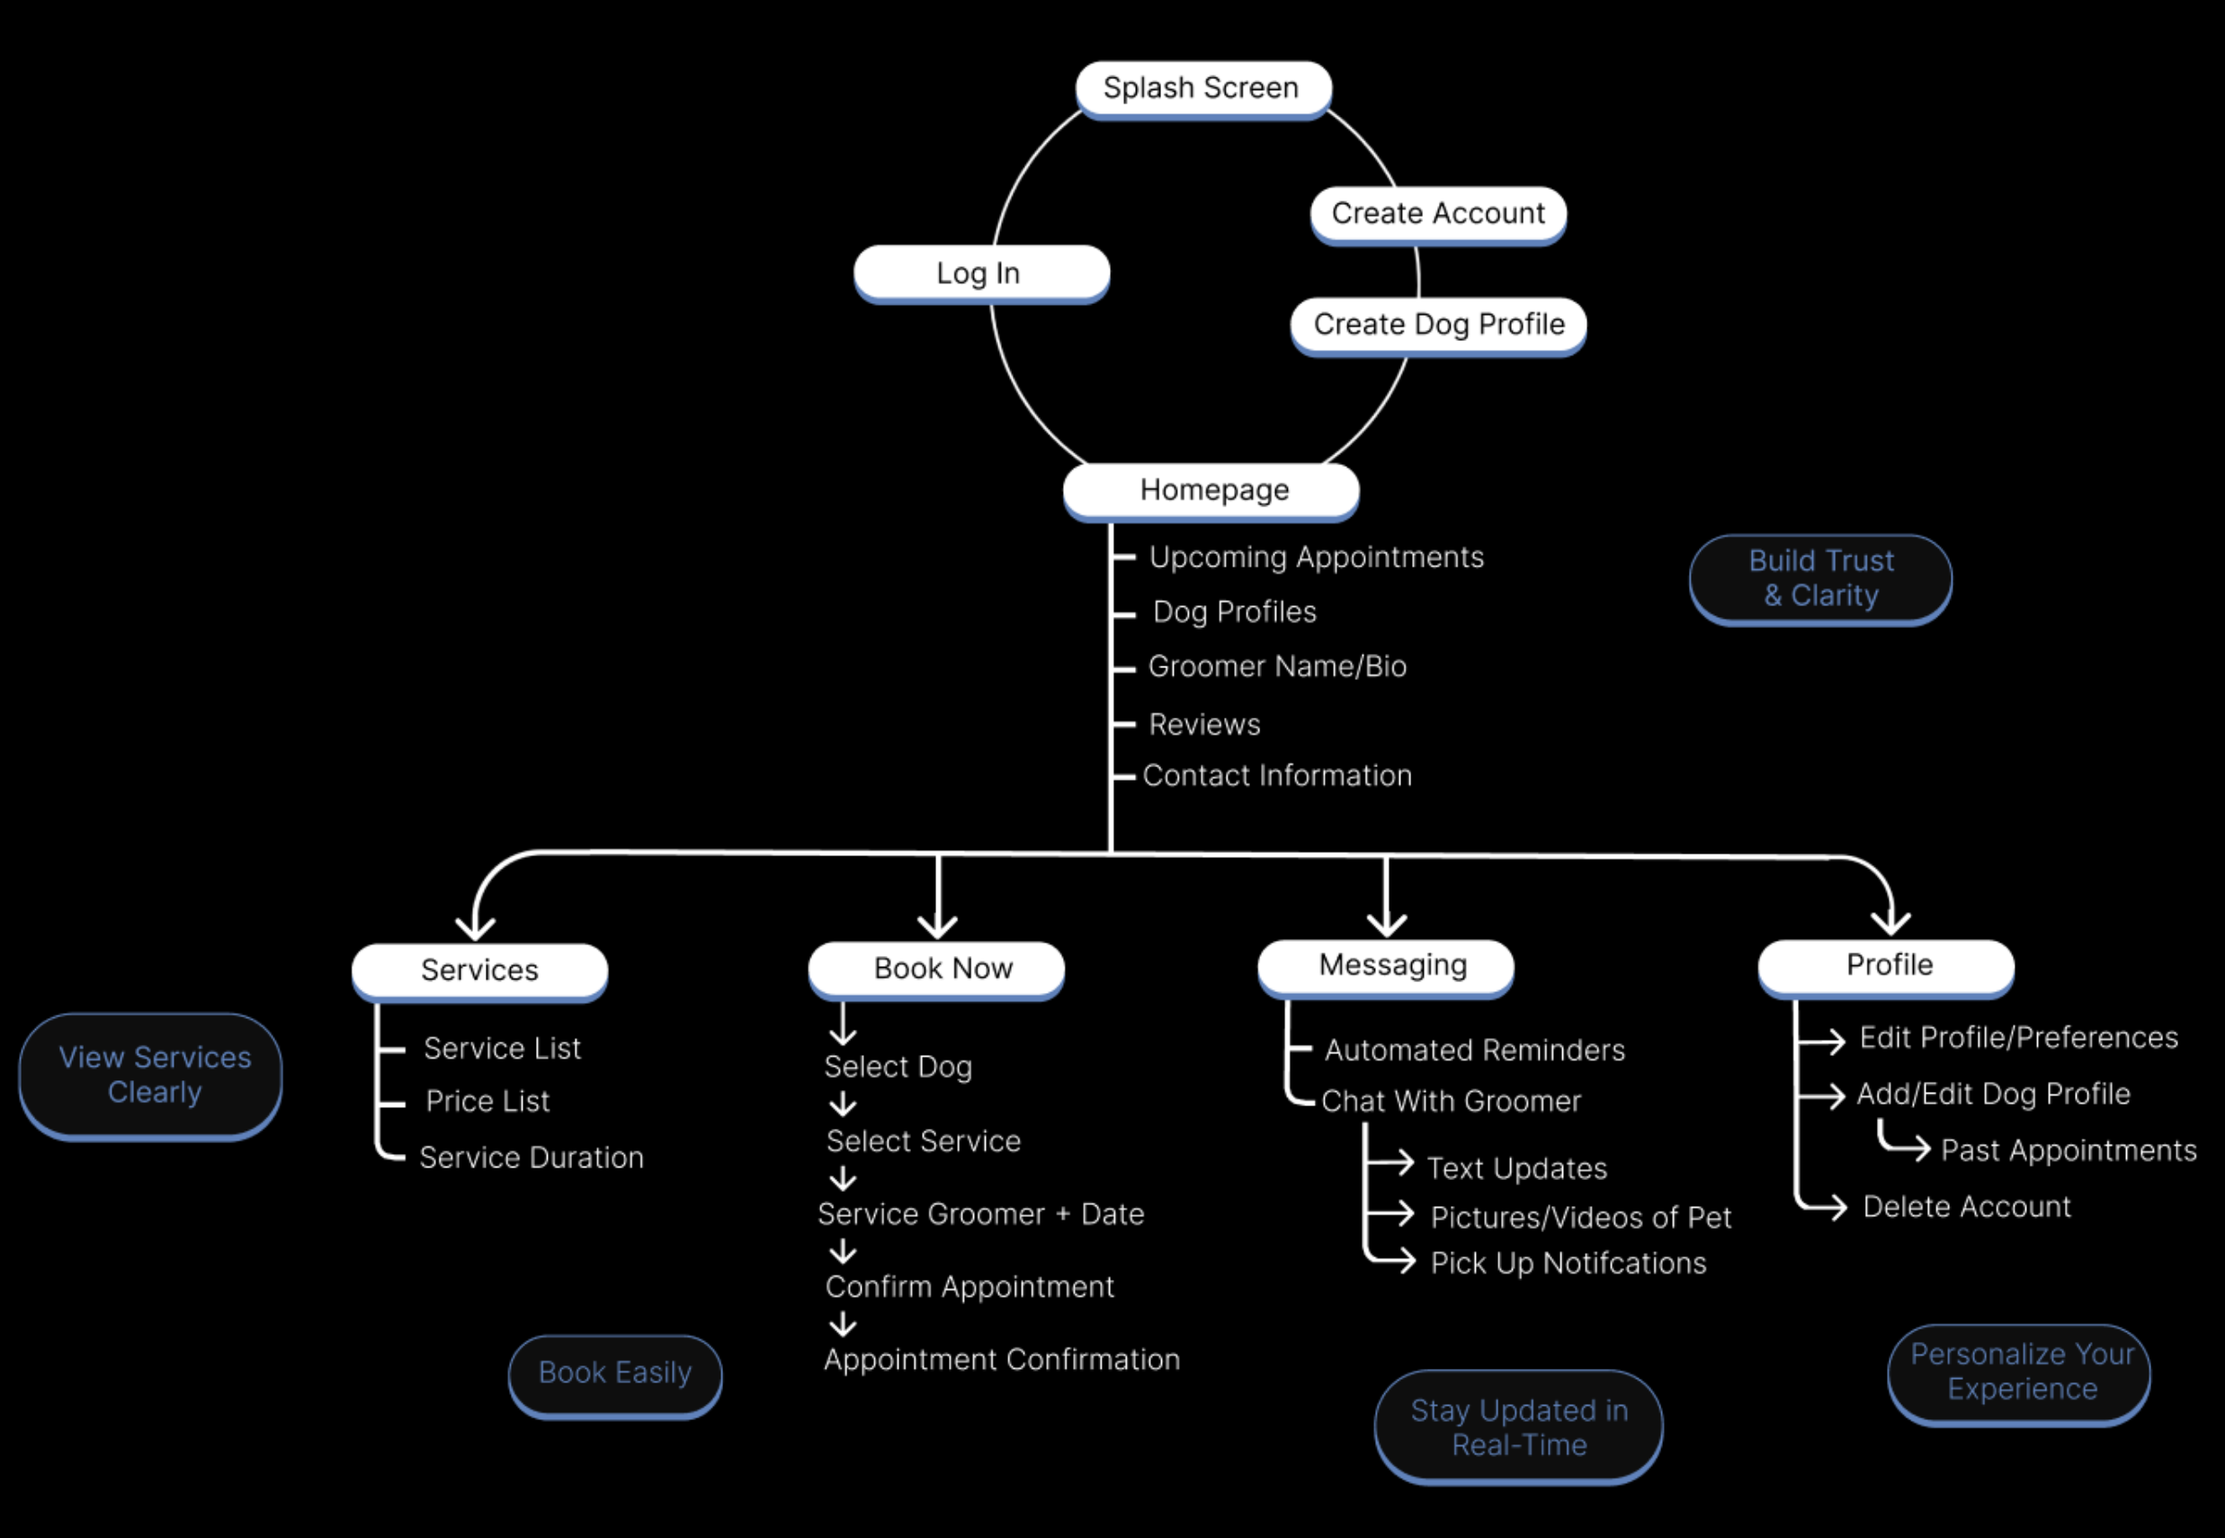
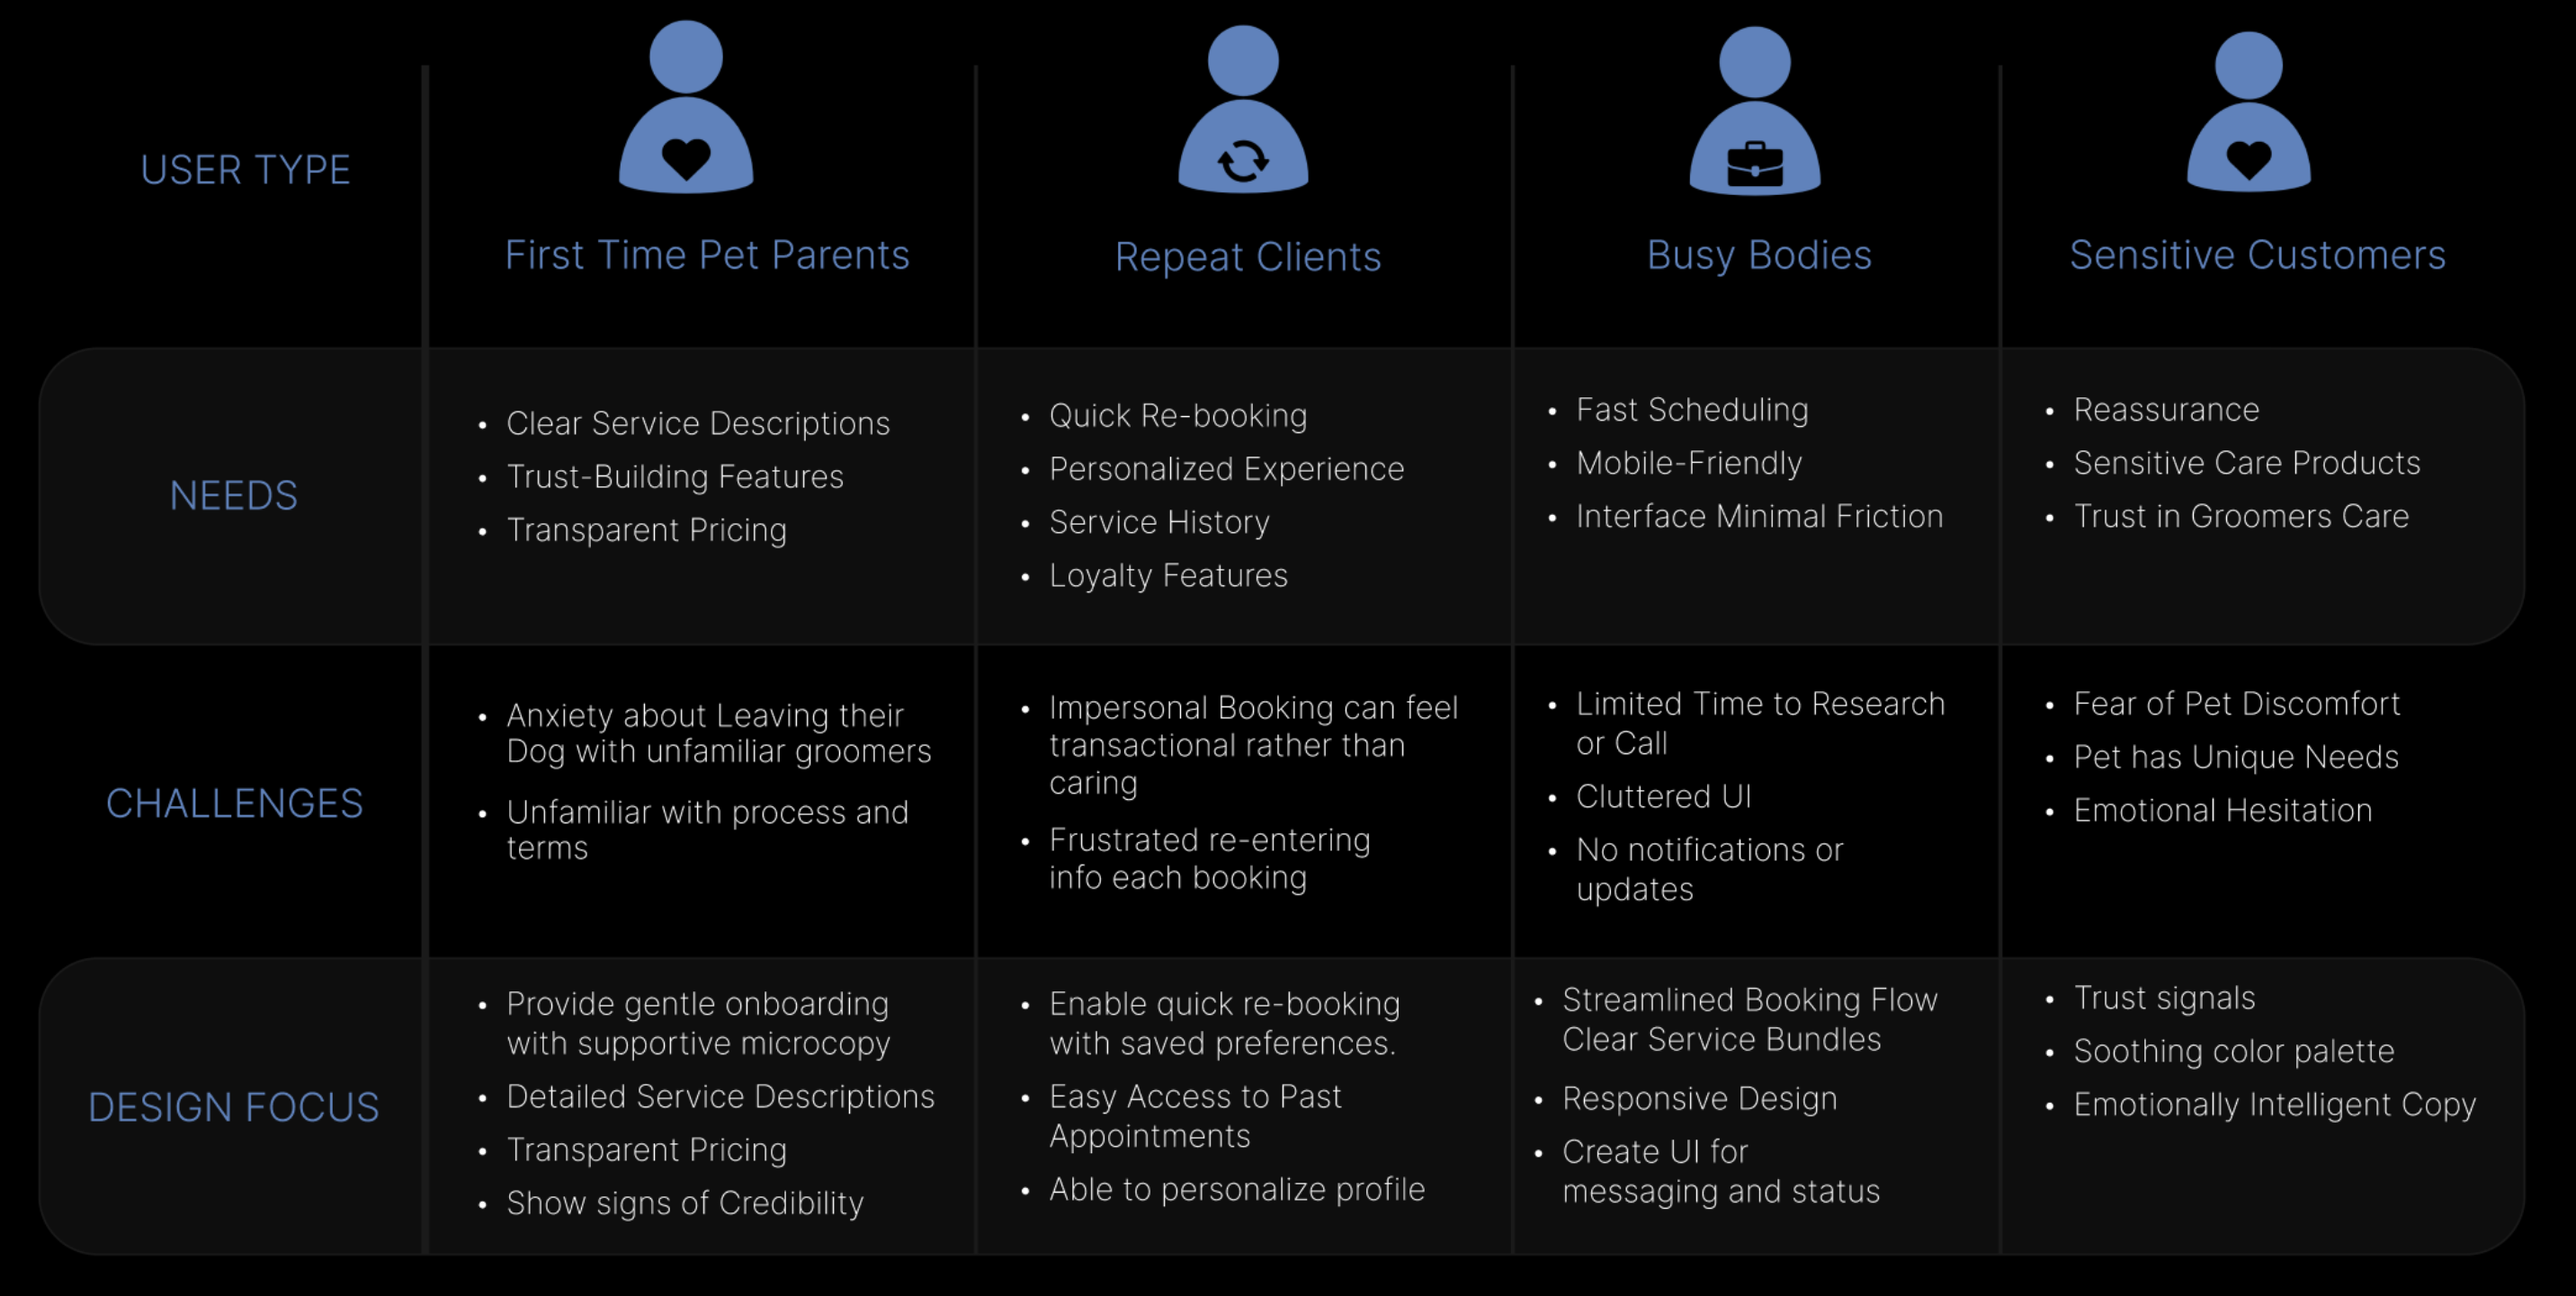
updated hero1

diff --git a/components/Project1/1-hero.tsx b/components/Project1/1-hero.tsx
@@ -1,14 +1,15 @@
+// components/Project1/HeroOverviewDog.tsx
 "use client";
 
 import Image from "next/image";
 import SectionHeader from "../SectionHeader";
 import { motion, useReducedMotion } from "framer-motion";
 
-export default function HeroOverviewCamping() {
+export default function HeroOverviewDog() {
   const prefersReduced = useReducedMotion();
 
-  const imageVariants = {
-    hidden: { opacity: 0, y: 16, filter: "blur(8px)" },
+  const phoneVariants = {
+    hidden: { opacity: 0, y: 14, filter: "blur(8px)" },
     show: {
       opacity: 1,
       y: 0,
@@ -17,62 +18,86 @@ export default function HeroOverviewCamping() {
     },
   };
 
-  const skillsRow1 = ["RESEARCH", "USER FLOWS", "USABILITY TESTING", "SKETCHING"];
-  const skillsRow2 = ["WIREFRAMING", "PROTOTYPING", "RESPONSIVE DESIGN", "UI CREATION"];
+  const skillsRow1 = ["UX RESEARCH", "UI CREATION", "USER FLOWS", "USABILITY STUDY"];
+  const skillsRow2 = ["WIREFRAMING", "PROTOTYPING", "RESPONSIVE DESIGN"];
 
   return (
     <section className="w-screen min-h-screen bg-black text-white flex flex-col justify-center">
-      <div className="mx-auto w-full max-w-[1000px] px-6 pt-20 pb-24 mt-12">
+      <div className="mx-auto w-full max-w-[1200px] px-6 pt-20 pb-24 mt-12">
         {/* ---------- HEADER ---------- */}
         <div className="text-center">
           <SectionHeader
-            kicker="RESPONSIVE WEBSITE DESIGN"
-            title="How Thoughtful UX Design Increased Engagement for First-Time Campers"
+            kicker="MOBILE APPLICATION"
+            title="How Emotionally Intelligent Design Improves Booking Confidence for Dog Grooming"
             align="center"
-            accent="camp"
-            kickerClassName="text-[8px] md:text-sm text-emerald-400"
-            titleClassName="text-md md:text-3xl max-w-3xl mx-auto text-center mt-2"
+            accent="dog"
+            kickerClassName="text-[8px] md:text-sm text-[#9DC0FF]"
+            titleClassName="text-md md:text-5xl max-w-[1000px] ml-12 mt-2"
           />
         </div>
 
-        {/* ---------- HERO IMAGE ---------- */}
-        <div className="relative mt-10 lg:mt-14 flex items-end justify-center">
-          {/* emerald radial glow — two stacked layers, inline styles (avoid purge), big + bright */}
-          <div
-            className="pointer-events-none absolute left-1/2 top-[42%] -translate-x-1/2 -translate-y-1/2
-                       w-[4200px] max-w-[420vw] aspect-[2.4/1] rounded-full blur-[900px] opacity-95 z-0"
-            style={{
-              background:
-                "radial-gradient(circle at center, rgba(16,185,129,0.85) 0%, rgba(10,70,40,0.55) 50%, rgba(0,0,0,0) 92%)",
-            }}
-          />
-          <div
-            className="pointer-events-none absolute left-1/2 top-[44%] -translate-x-1/2 -translate-y-1/2
-                       w-[4600px] aspect-[2/1] rounded-full blur-[700px] opacity-80 z-0"
-            style={{
-              background:
-                "radial-gradient(circle at center, rgba(16,185,129,0.6) 0%, rgba(10,70,40,0.35) 45%, rgba(0,0,0,0) 90%)",
-            }}
-          />
+        {/* ---------- HERO IMAGE (PHONES) ---------- */}
+        <div className="relative mt-10 lg:mt-14 flex items-end justify-center gap-6 md:gap-10">
+          {/* blue radial glow */}
+          <div className="pointer-events-none absolute left-1/2 top-[42%] -translate-x-1/2 -translate-y-1/2 w-[1200px] max-w-[95vw] aspect-[2/1] rounded-full
+                          bg-[radial-gradient(circle_at_center,rgba(157,192,255,0.25),rgba(0,0,0,0)_70%)] blur-[120px]" />
 
           {/* pedestal shadow */}
-          <div className="pointer-events-none absolute left-1/2 bottom-2 -translate-x-1/2 w-[1150px] max-w-[90vw] h-[120px] rounded-full bg-black/80 blur-[280px] opacity-70" />
+          <div className="pointer-events-none absolute left-1/2 bottom-2 -translate-x-1/2 w-[700px] max-w-[92vw] h-[90px] rounded-full bg-black/80 blur-[90px] opacity-70" />
 
-          {/* laptop image */}
+          {/* left phone */}
           <motion.div
             initial="hidden"
             whileInView="show"
             viewport={{ once: true, amount: 0.25 }}
-            variants={imageVariants}
-            transition={{ delay: prefersReduced ? 0 : 0.1 }}
-            className="relative z-10 scale-[0.9]"
+            variants={phoneVariants}
+            transition={{ delay: prefersReduced ? 0 : 0.05 }}
+            className="relative"
           >
             <Image
-              src="/images/project2-images/camping-hero-laptop.png"
-              alt="ELMNT camping website homepage mockup"
-              width={1000}
-              height={700}
-              className="relative w-[75%] max-w-[720px] h-auto rounded-2xl"
+              src="/images/homepage-images/phone-1.png"
+              alt="Login screen"
+              width={420}
+              height={860}
+              className="relative z-10 w-[220px] h-auto"
+              priority
+            />
+          </motion.div>
+
+          {/* center phone */}
+          <motion.div
+            initial="hidden"
+            whileInView="show"
+            viewport={{ once: true, amount: 0.25 }}
+            variants={phoneVariants}
+            transition={{ delay: prefersReduced ? 0 : 0.18 }}
+            className="relative scale-[1.06]"
+          >
+            <Image
+              src="/images/homepage-images/phone-2.png"
+              alt="Home dashboard"
+              width={420}
+              height={860}
+              className="relative z-10 w-[240px] h-auto"
+              priority
+            />
+          </motion.div>
+
+          {/* right phone */}
+          <motion.div
+            initial="hidden"
+            whileInView="show"
+            viewport={{ once: true, amount: 0.25 }}
+            variants={phoneVariants}
+            transition={{ delay: prefersReduced ? 0 : 0.3 }}
+            className="relative scale-[0.94]"
+          >
+            <Image
+              src="/images/homepage-images/phone-3.png"
+              alt="Service selection"
+              width={420}
+              height={860}
+              className="relative z-10 w-[220px] h-auto"
               priority
             />
           </motion.div>
@@ -81,26 +106,26 @@ export default function HeroOverviewCamping() {
         {/* ---------- OVERVIEW ---------- */}
         <div className="mt-16 grid md:grid-cols-2 md:gap-12 md:items-start">
           {/* LEFT — Project & Role */}
-          <div className="ml-36">
-            <p className="text-[11px] tracking-[0.22em] text-emerald-400">PROJECT</p>
-            <p className="mt-1 lg:mt-2 text-xs md:text-[13px] text-white/95">
-              Design a responsive website for a camping e-commerce experience.
+          <div>
+            <p className="text-[11px] tracking-[0.22em] text-[#9DC0FF]">PROJECT</p>
+            <p className="mt-1 lg:mt-2 text-xs md:text-xl text-white/95">
+              Design a mobile-first app for a local dog grooming service.
             </p>
 
-            <p className="mt-4 lg:mt-6 text-[11px] tracking-[0.22em] text-emerald-400">ROLE</p>
-            <p className="mt-1 lg:mt-2 text-xs md:text-[13px] text-white/95">
+            <p className="mt-4 lg:mt-10 text-[11px] tracking-[0.22em] text-[#9DC0FF]">ROLE</p>
+            <p className="mt-1 lg:mt-2 text-xs md:text-xl text-white/95">
               UX/UI Designer, Researcher, Visual Designer, Usability Tester
             </p>
           </div>
 
           {/* RIGHT — Duration & Skills */}
           <div className="mt-4 md:mt-0">
-            <p className="text-[11px] tracking-[0.22em] text-emerald-400">DURATION</p>
-            <p className="mt-1 lg:mt-2 text-xs md:text-[13px] text-white/95">
-              May 2025 – July 2025
+            <p className="text-[11px] tracking-[0.22em] text-[#9DC0FF]">DURATION</p>
+            <p className="mt-1 lg:mt-2 text-xs md:text-xl text-white/95">
+              July 2025 – August 2025
             </p>
 
-            <p className="mt-4 lg:mt-6 text-[11px] tracking-[0.22em] text-emerald-400">
+            <p className="mt-4 lg:mt-10 text-[11px] tracking-[0.22em] text-[#9DC0FF]">
               UX/UI SKILLSETS LEVERAGED
             </p>
 
@@ -110,7 +135,7 @@ export default function HeroOverviewCamping() {
                 {skillsRow1.map((t) => (
                   <span
                     key={t}
-                    className="rounded-xl border border-emerald-400/20 bg-white/[0.05] px-2 py-1 lg:px-3 lg:py-1 text-[8px] lg:text-[13px] tracking-wide text-white/95 ring-1 ring-inset ring-emerald-400/10 shadow-sm"
+                    className="rounded-xl border border-[#9DC0FF]/20 bg-white/[0.05] px-2 py-1 lg:px-4 lg:py-2 text-[8px] lg:text-[13px] tracking-wide text-white/95 ring-1 ring-inset ring-[#9DC0FF]/10 shadow-sm"
                   >
                     {t}
                   </span>
@@ -120,7 +145,7 @@ export default function HeroOverviewCamping() {
                 {skillsRow2.map((t) => (
                   <span
                     key={t}
-                    className="rounded-xl border border-emerald-400/20 bg-white/[0.05] px-2 py-1 lg:px-3 lg:py-1 text-[8px] lg:text-[13px] tracking-wide text-white/95 ring-1 ring-inset ring-emerald-400/10 shadow-sm"
+                    className="rounded-xl border border-[#9DC0FF]/20 bg-white/[0.05] px-2 py-1 lg:px-4 lg:py-2 text-[8px] lg:text-[13px] tracking-wide text-white/95 ring-1 ring-inset ring-[#9DC0FF]/10 shadow-sm"
                   >
                     {t}
                   </span>
